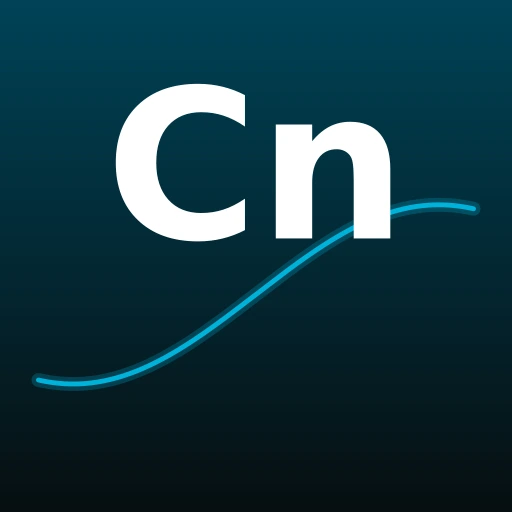
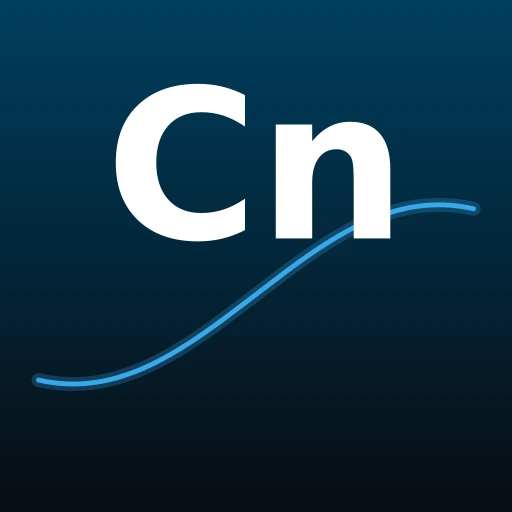
사이트: 테마 색을 hue 240으로, 배너·아바타 색 맞춤
Claude-Session: https://claude.ai/code/session_01T4u9dnTGAwo8jaE3qsqh3M

diff --git a/src/config/siteConfig.ts b/src/config/siteConfig.ts
@@ -13,7 +13,7 @@ export const siteConfig: SiteConfig = {
 	lang: SITE_LANG,
 
 	themeColor: {
-		hue: 220, // 主题色的默认色相，范围从 0 到 360。例如：红色：0，青色：200，蓝绿色：250，粉色：345
+		hue: 240, // 主题色的默认色相，范围从 0 到 360。例如：红色：0，青色：200，蓝绿色：250，粉色：345
 		fixed: false, // 对访问者隐藏主题色选择器
 	},
 

diff --git a/research/make_brand_images.py b/research/make_brand_images.py
@@ -2,7 +2,7 @@
 
 배너는 비행 이론 3편의 2D 점질량 모델과 같은 방식(고정 타임스텝, 받음각 기반 양력,
 실속 후 양력 감소)으로 여러 궤적을 적분해 그린 것이다. 장식용이라 계수는 보기 좋게 고른 값이다.
-색은 사이트 테마(oklch hue 220)에서 뽑았다: 배경 #070f11 → #004357, 강조 #00b1da.
+색은 사이트 테마(oklch hue 240)에서 뽑았다: 배경 #080e13 → #003f60, 강조 #37a8ec.
 """
 import numpy as np
 import matplotlib
@@ -13,7 +13,7 @@ from PIL import Image
 import io, os
 
 OUT = os.path.join(os.path.dirname(__file__), "..", "public", "assets")
-BG0, BG1, ACC = "#070f11", "#004357", "#00b1da"
+BG0, BG1, ACC = "#080e13", "#003f60", "#37a8ec"
 rng = np.random.default_rng(7)
 
 def trajectory(v0, pitch_cmd, steps=900, dt=1/60):
